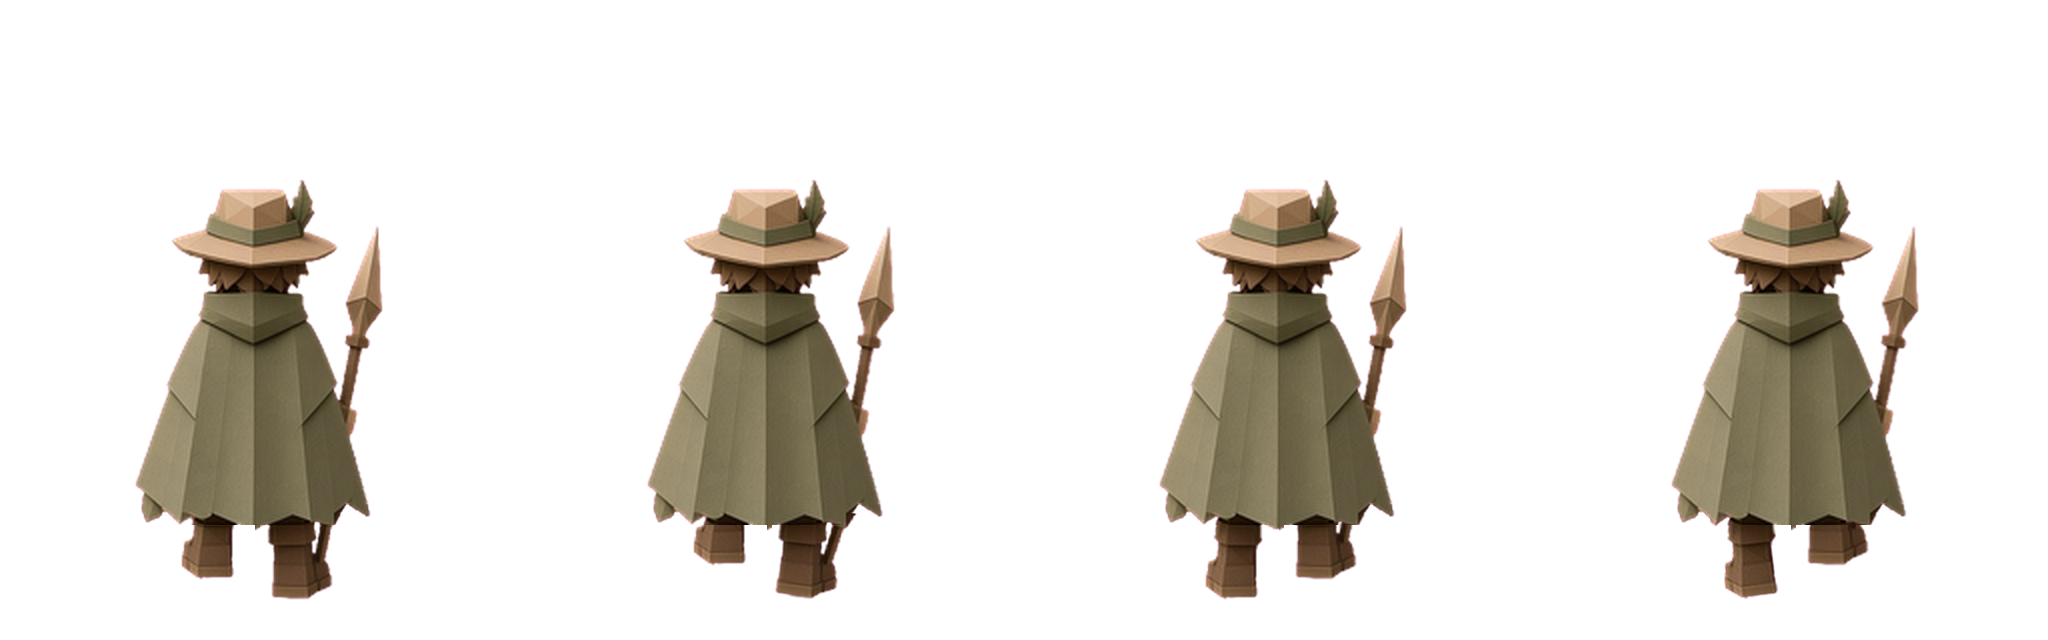
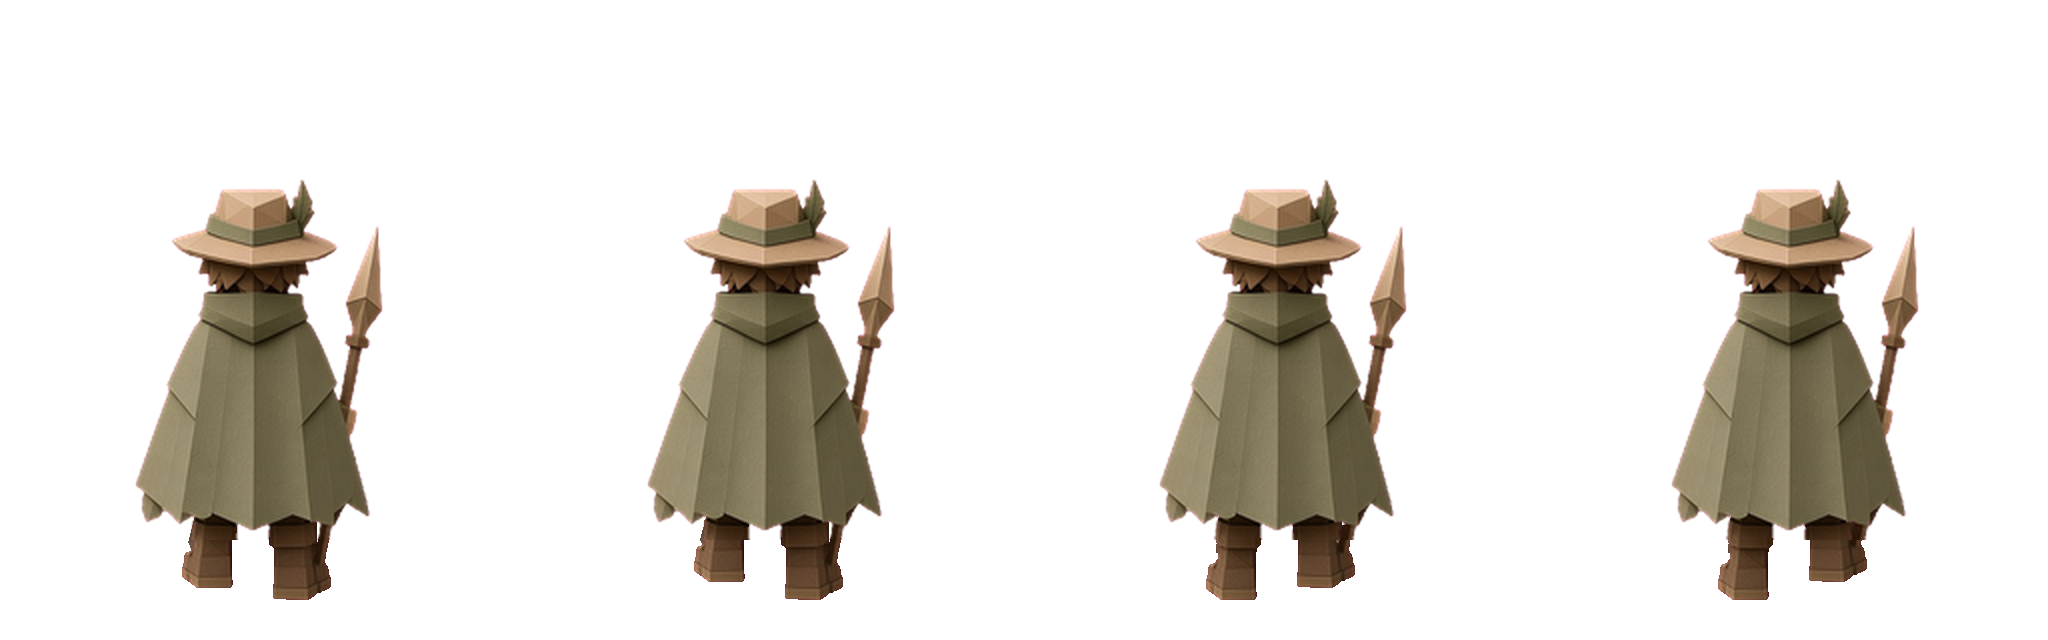
Use the v3-fix hunter sheets without changing the step timing.
The previous v3 strips stay in walk-v3 and idle-v3. East and west contact feet now step back in the art; the distance cycle is the same.

diff --git a/src/walk/play.ts b/src/walk/play.ts
@@ -319,7 +319,7 @@ export class WalkMode {
     const missing = dirs.filter((dir) => !this.sheets[dir]);
     const note = document.getElementById("walk-limit");
     if (note && missing.length === 0) {
-      note.textContent = "第三批，不是终稿。裤缝靴缝还在，站立双脚收拢，换向持矛的手不一致，斗篷仍挡住南北迈步。";
+      note.textContent = "v3-fix，不是终稿。四帧内仍会滑，南北落脚没有后移，换向矛的位置不一致，停步仍会收脚。";
     } else if (note && missing.length) {
       note.textContent = `行走帧缺失：${missing.join(" ")}。缺的方向不用单张冒充迈步。`;
     }

diff --git a/src/walk/walk-sheets.ts b/src/walk/walk-sheets.ts
@@ -16,8 +16,8 @@ export const WALK_FRAMES = 4;
 /** Feet contact inside each frame. */
 export const WALK_ANCHOR_X = 256;
 export const WALK_ANCHOR_Y = 600;
-/** Third delivered strip set, with a stand pose per direction. The pivot stays (256, 600). */
-export const WALK_BATCH = "v3";
+/** Targeted v3-fix sheets. The pivot and the distance cycle stay as they were. */
+export const WALK_BATCH = "v3-fix";
 export const WALK_SHEET_W = WALK_FRAME_W * WALK_FRAMES;
 export const WALK_SHEET_H = WALK_FRAME_H;
 
